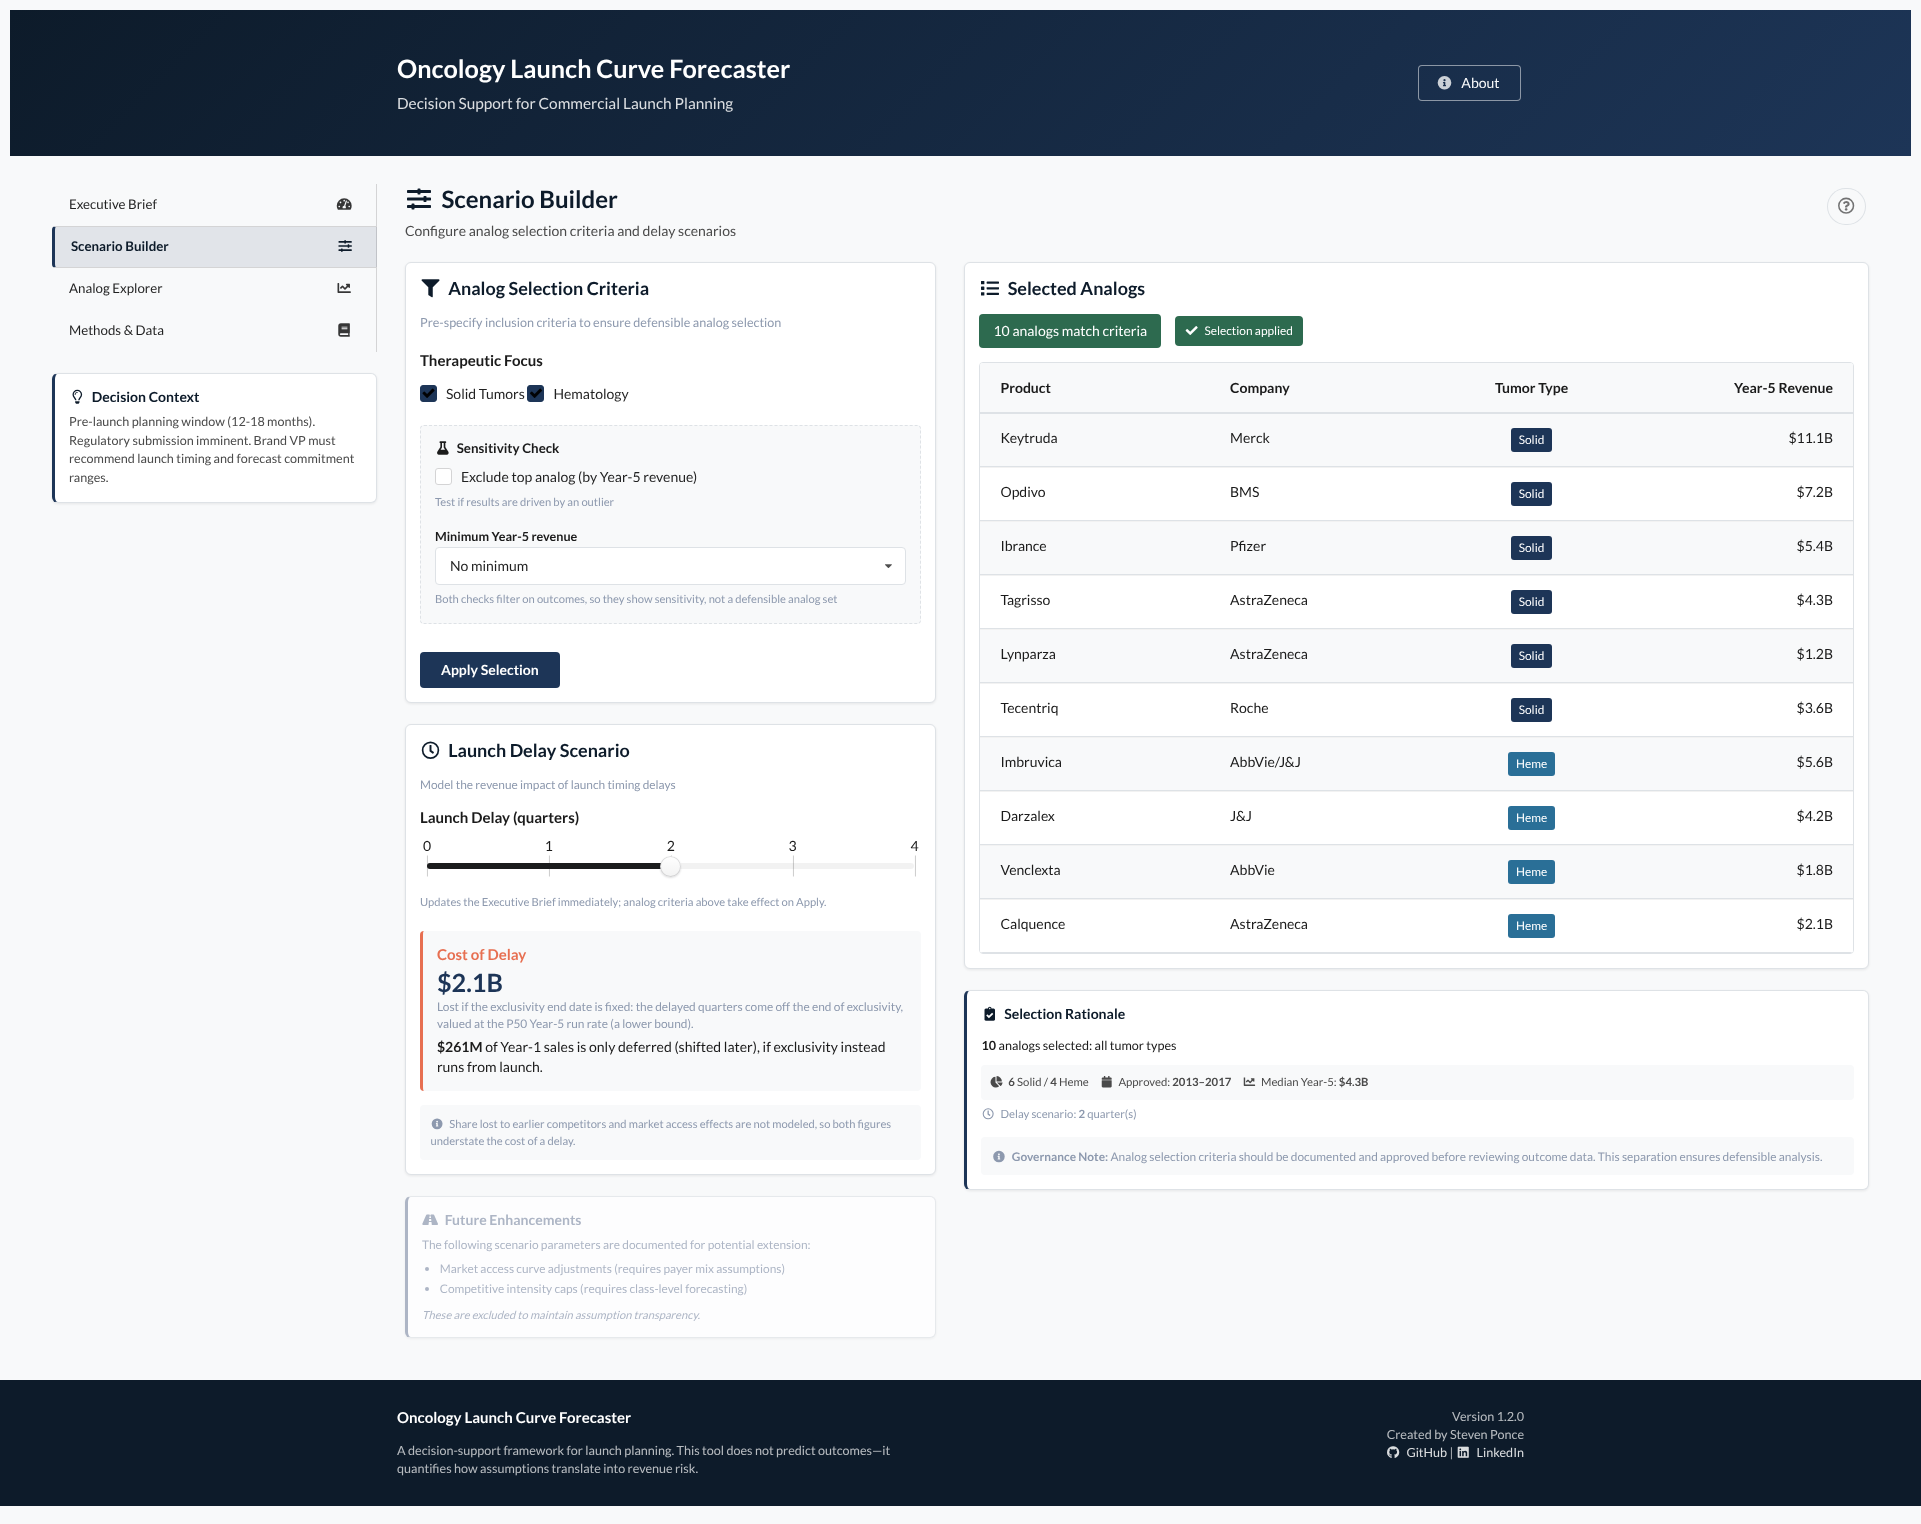
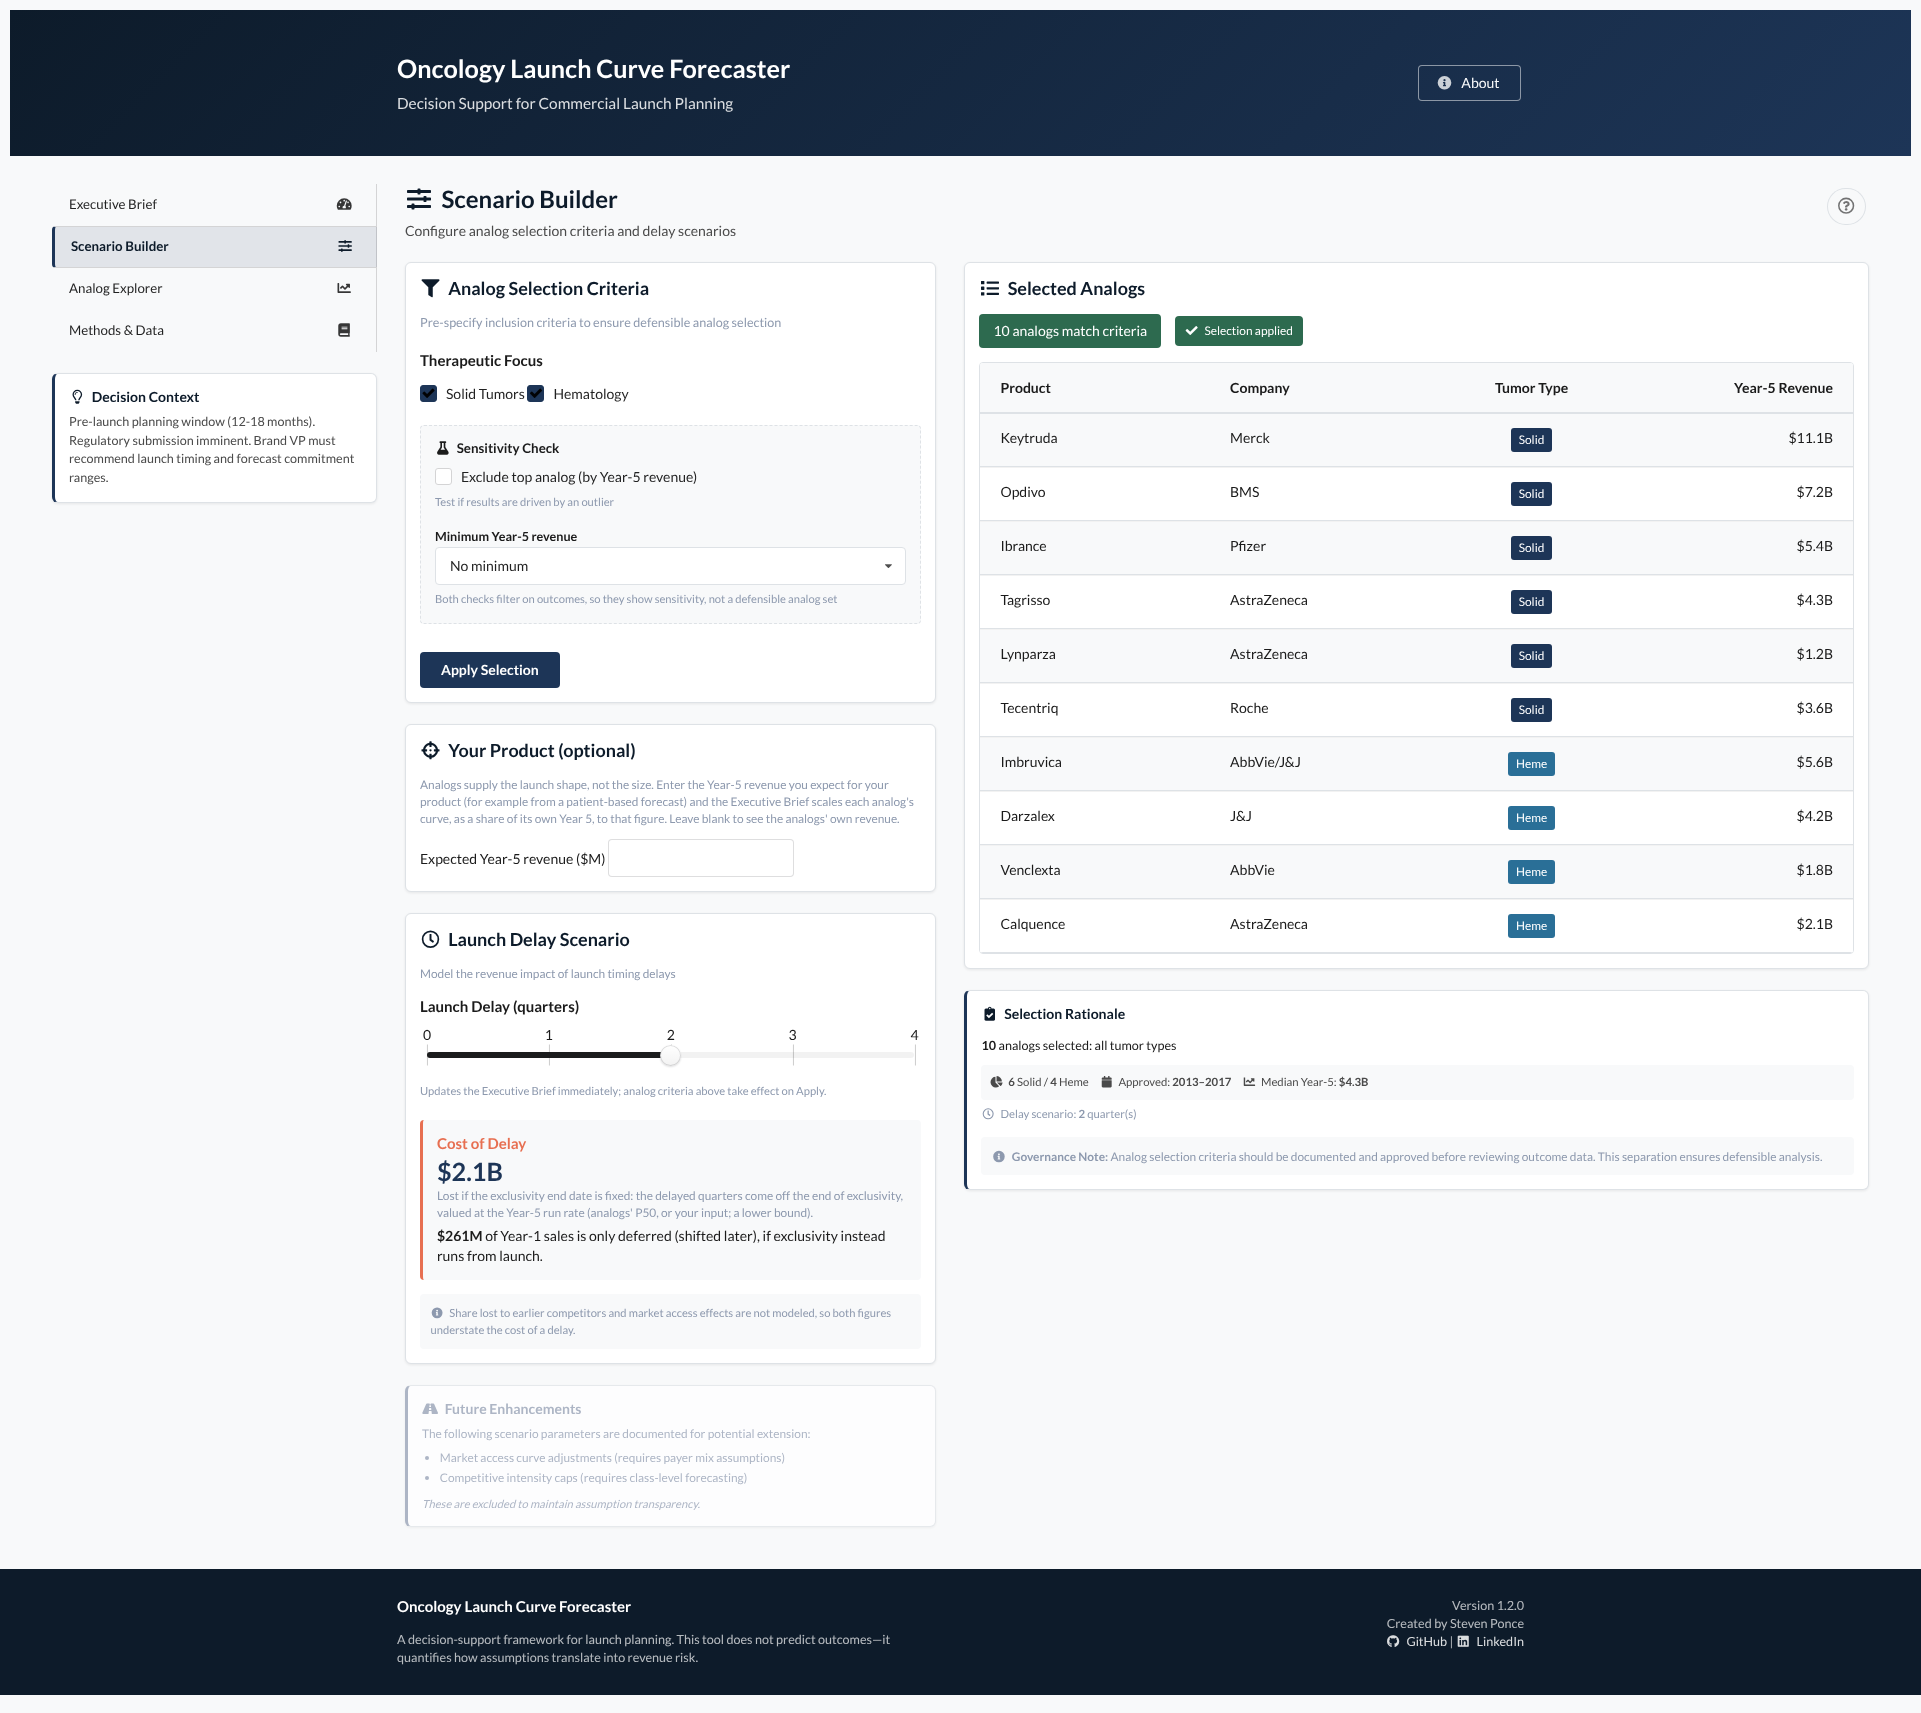
Product mode: scale analog launch shapes to an expected Year 5
Analogs supply the launch shape, not the size. An optional expected
Year-5 revenue in the Scenario Builder scales each analog's curve
(revenue / own Year-5 revenue) to the user's product; the Executive
Brief KPIs, chart, decision cards and cost of delay then use the
scaled values. Blank input keeps the analogs' own revenue. Verified
against an independent calculation ($1B input: Year 1 $98M, P25-P75
$70M-$135M, 2-quarter delay $500M lost / $49M deferred).

Claude-Session: https://claude.ai/code/session_01PHbzNLkh3D37aanqfshCbx

diff --git a/README.md b/README.md
@@ -136,7 +136,13 @@ Lost if exclusivity end is fixed = delay_quarters / 4 × P50 Year-5 revenue   (l
 Deferred first-year sales       = delay_quarters × (median Year-1 revenue / 4)
 ```
 
-This is a **Year 1 average-quarter approximation**, explicitly labeled to match the calculation methodology.
+**Product mode (optional).** Enter the Year-5 revenue you expect for your own product in the Scenario Builder, for example from a patient-based forecast. Each analog's curve is divided by its own Year-5 revenue to give its launch *shape*, and the shapes are scaled to your figure. The analogs then inform how fast revenue ramps, not how large it gets, and the cost of delay uses your numbers:
+
+```
+Implied Year-t revenue = expected Year-5 revenue × P50 analog shape at Year t
+```
+
+The deferred figure is a Year-1 average-quarter approximation; the lost figure is a lower bound, since every analog was still growing at Year 5.
 
 ------------------------------------------------------------------------
 
